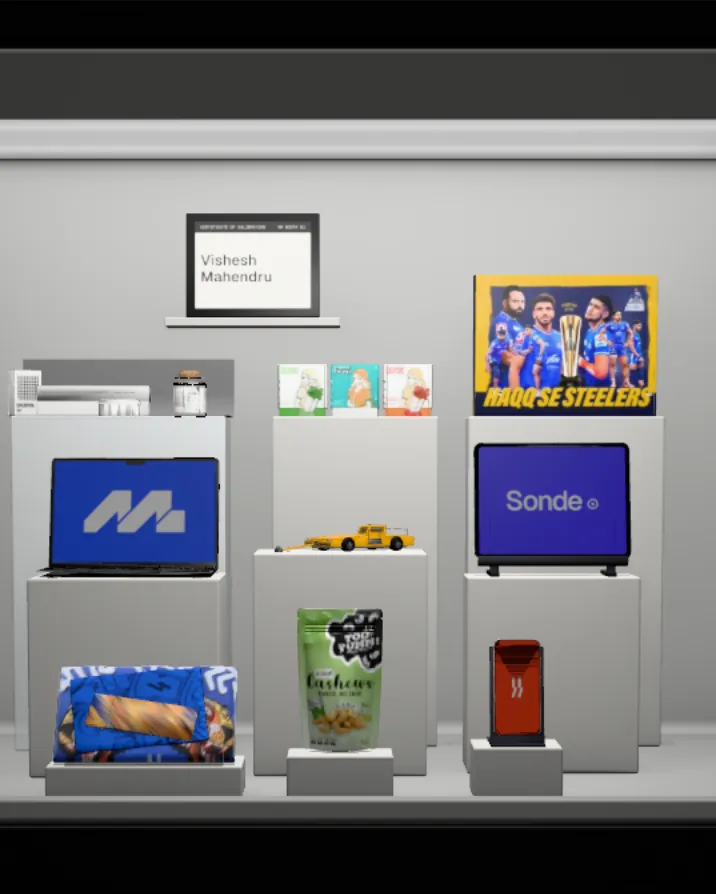
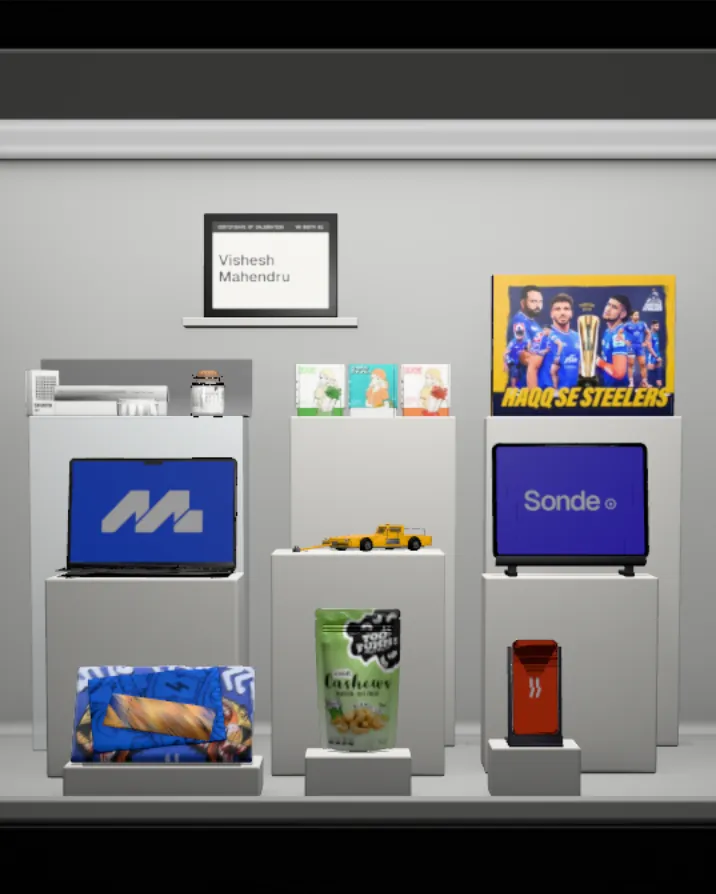
08: lamp changes at full output from the first frame (only the first-visit opening strikes from dark); phone swipe starts at the centre of the phone order; check-flicker judges transitions by dips below both sides; check-smear waits for the soft navigation; reveal sheet steps the real crossfade; pos
Claude-Session: https://claude.ai/code/session_01RuhKxfnJBpDdXDCHDdVnoZ

Changed region(s): [[0.0, 0.302, 0.9525, 0.906], [0.2458, 0.2416, 0.4916, 0.3624], [0.8911, 0.8154, 0.9525, 0.8758]]

diff --git a/components/booth/BoothFrame.tsx b/components/booth/BoothFrame.tsx
@@ -19,10 +19,11 @@ export function BoothFrame({ samples: given }: { samples: FrameSample[] }) {
   const ref = useRef<HTMLDivElement>(null);
   // G (08): on phones the swipe follows the phone arrangement, front row first, left to right
   const [samples, setSamples] = useState(given);
+  const [ordered, setOrdered] = useState(false);
   useEffect(() => {
-    if (!PHONE_LAYOUT) return setSamples(given);
     const tier = (slug: string) => Math.round(STAGING[slug].z * 4);
-    setSamples([...given].sort((a, b) => tier(b.slug) - tier(a.slug) || STAGING[a.slug].x - STAGING[b.slug].x));
+    setSamples(PHONE_LAYOUT ? [...given].sort((a, b) => tier(b.slug) - tier(a.slug) || STAGING[a.slug].x - STAGING[b.slug].x) : given);
+    setOrdered(true);
   }, [given]);
   const focusSlug = useBooth((s) => s.focusSlug);
   const setFocus = useBooth((s) => s.setFocusSlug);
@@ -65,8 +66,8 @@ export function BoothFrame({ samples: given }: { samples: FrameSample[] }) {
   }, []);
   // start on the centre sample
   useEffect(() => {
-    if (!useBooth.getState().focusSlug && samples.length) setFocus(samples[Math.floor(samples.length / 2)].slug);
-  }, [samples, setFocus]);
+    if (ordered && !useBooth.getState().focusSlug && samples.length) setFocus(samples[Math.floor(samples.length / 2)].slug);
+  }, [ordered, samples, setFocus]);
 
   const go = (d: number) => {
     const i = Math.min(samples.length - 1, Math.max(0, index + d));

diff --git a/components/booth/LampRig.tsx b/components/booth/LampRig.tsx
@@ -195,10 +195,14 @@ export function LampRig() {
     const lamp = lampOverride ?? liveLamp;
     const strikeProgress = override ?? liveProgress;
     const P = lampById(lamp);
-    const curve = useBooth.getState().opening ? 'opening' : P.strike.curve;
-    const ch = strikeChannels(curve, strikeProgress);
+    const opening = useBooth.getState().opening;
+    const curve = opening ? 'opening' : P.strike.curve;
+    // C (08): only the first-visit opening strikes from dark. A lamp change is at full output from its
+    // first frame (a strike from black read as a blink on every switch); FLOOD keeps its exposure
+    // settle, which only ever brightens
+    const ch = opening ? strikeChannels(curve, strikeProgress) : { ...strikeChannels(curve, 1), exposure: strikeChannels(curve, strikeProgress).exposure };
     const env = ch.light;
-    const ramp = strikeKelvin(curve, strikeProgress);
+    const ramp = opening ? strikeKelvin(curve, strikeProgress) : null;
     const onTray = activeSlug !== null;
 
     scene.environmentIntensity = ENV_INTENSITY[lamp] * env;

diff --git a/DELIVERY-08.md b/DELIVERY-08.md
@@ -1,0 +1,130 @@
+# Delivery report: batch 08
+
+Covers the frame budget, no flicker, masked hover focus, true scale and staging, project headers, phone staging and polish.
+
+Work is on branch `claude/session-access-question-dqidr4`. The screenshots are in `booth-08.zip` (and `tools/lamp-review/08/`). All browser checks ran in software rendering (SwiftShader, no GPU), so GPU milliseconds must be read on the RTX with the commands in §2.
+
+**ROOM FROZEN at `aa0e153`.** `tools/booth-room.glb` (13 parts, UV1) and its sha256 lock (`tools/booth-room.lock`) have not changed since. `bake-booth` refuses to rewrite it unless `ROOM_UNFREEZE=1`. Every later change (true-scale plinths, the shelf, the phone arrangement) left the room's UV1 untouched: the movable parts pack after the room and step their own texel density down when they need room.
+
+## 1. Tests
+
+@@TESTS@@
+
+## 2. Frame budget (B)
+
+**What changed.**
+- **Re-render only on change.** The floor reflection, the shadow map and the SSAO normals now re-render only when something changes them: the camera, the lamp, an object's transform, the view rect, the DPR or a model load. Each system has its own dirty flag (`lib/dirty.ts`), shown in the `?perf` overlay with a re-render count.
+- **VSM shadows.** Softness is baked into the map once per change; PCSS no longer runs per pixel per frame.
+- **One combined screen light on desktop**, as on phones.
+- **SSAO normals:** skipped on unchanged frames. Once a lightmap exists, they cover the objects only.
+- **No per-frame work** that doesn't change the image. When nothing moves, the canvas doesn't render at all.
+
+**SCREEN** (the reason to combine the lights is that it must still read 15–25 L* on the pouch, book and SOOK):
+
+| | Pouch | Book | SOOK |
+|---|---|---|---|
+| Before: three per-screen lights | 35.4 | 30.5 | 37.1 |
+| Combined light, final gains, 07 staging | 18.3 | 22.4 | 22.9 |
+| **Combined light, 08 true-scale staging** | **19.3** | **22.4** | **20.8** |
+
+**MSAA vs SMAA.** I kept MSAA 4x: SMAA breaks the thin highlights on the frame chamfers into dashes, and they crawl under the pointer parallax. Mean change between two parallax frames: MSAA 0.50 / 1.05, SMAA 0.67 / 1.09. Crops: `tools/lamp-review/08/aa-compare.png`.
+
+**`__boothPasses` table (SwiftShader).** These are CPU milliseconds, so the shares matter, not the absolute numbers. "Still" is a frame where nothing changed; "moving" forces every system to re-render.
+
+| Pass (2560×1440, all on) | Still | Moving |
+|---|---|---|
+| ViewsPass (drawing the booth) | 7019 | 8987 |
+| Scene prep (reflector, contact shadows, shadow map) | 350 | 896 |
+| NormalPass (SSAO normals) | **1.4** | 54.8 |
+| EffectPass | 503 | 497 |
+| ShaderPass | 339 | 375 |
+| CoveragePass | 50 | 63 |
+| **Frame p50 / p95** | **8263 / 8724** | **10872 / 11155** |
+
+The still frame is 24% cheaper than the moving one. On a still frame the normal pass drops 97% and scene prep drops 61%: that is the saving the RTX gets on every frame where nothing moves. The full table, with each feature switched off, is in `tools/lamp-review/08/frame-budget-swiftshader.md`. The phone tier at 390×844 @2x is 1848ms p50.
+
+**Commands for the RTX 4070 SUPER** (Chrome, 2560×1440):
+
+1. Open `https://<preview>/?perf`. The overlay shows the frame time and, on the last line, the dirty flags (● = re-rendering this frame) with counts.
+2. In the console, run `__boothPasses(30)`: the still frame (no re-render). Target p50 ≤ 8ms, p95 ≤ 11ms.
+3. Run `__boothPasses(30, true)`: every system forced to re-render. This is the worst case while the pointer moves.
+4. A/B any feature with `?perf&no=<list>`. For example `?perf&no=msaa4` (MSAA 2x), `?perf&no=reflector,ssao`. Then run `__boothPasses(30)` again.
+   - Switches: `ssao`, `vsm` (back to PCF + PCSS), `pcss`, `screencombine` (back to per-screen lights), `screenlights`, `reflector`, `msaa4`, `msaa` (SMAA), `focus`, `contact`, `envcapture`, `bloom`.
+5. `?perf&events` adds an on-screen log of every reveal step, lamp change, re-render and contact-shadow re-bake.
+
+## 3. No flicker (C)
+
+- **The poster is the live booth.** `tools/make-posters.mjs` renders it from the current staging: the cabinet frame crop at 1200 and 2400, plus a 4:5 phone poster.
+  - The build refuses a stale poster (`tools/poster-hash.mjs --check` hashes every input of the booth image).
+  - `check-poster` compares the poster with the live render: 1.34% mean difference on desktop, 0.52% on the phone (limit 2.5%).
+  - 07's poster was a different staging. It fails both this check and the reveal check in `check-flicker`.
+- **Reveal.** The poster stays until the visible models are in, the lamp's interior is captured and one full frame has rendered (programs compiled first). It then crossfades over 300ms; a model that arrives later fades in over 250ms. Contact sheet: `reveal-sheet.jpg`.
+- **No runtime pass changes.** Every pass exists from the first frame. Lights that switch on, like the hover key and the certificate spot, stay in the scene at intensity 0, so no material recompiles mid-session.
+- **Pre-capture.** Every lamp's environment is captured while idle, after the reveal, so the first switch to a lamp no longer captures on screen.
+- **Contact shadows.** A re-bake after a turntable spin crossfades over 200ms.
+- **`?perf&events`:** the on-screen event log.
+- **`check-flicker`** now covers the reveal (the poster must match the live render), hover on and off across every sample under D50 and A, a lamp change, a turntable spin with release, and the JSW open.
+
+## 4. Masked hover focus (D)
+
+- Depth of field is gone. A half-resolution mask of the hovered sample keeps it sharp. Everything outside it gets a ≤ 2.5px blur at 1440p, with a ~6px feather.
+- Strength ramps in over 250ms and out over 300ms, and crossfades between samples. The tray object rests at 0.6.
+- A soft key, about +12%, lights the hovered sample in the lamp's own colour (room lamps only).
+- Off on phones, under reduced motion and in house lights. At rest it costs nothing: the pass returns before sampling when the strength is 0.
+- Screenshot: `*-home-hover-mitooshi.jpg`.
+
+## 5. True relative scale (E)
+
+- **One display scale for every sample: real size (×1.0).** The phone is a phone next to the laptop.
+- **The tug** is the one scale model: 1:24, 0.28m with the tow bar, on its own plinth with an engraved "1:24" plate (Geist Mono, dark on brushed metal).
+- **SHUNYA** sits on a Munsell N5.5 curved sweep card on a higher riser (29cm), instead of the black board.
+- **The certificate** is 1.6× larger, on a lower, wider shelf, under its own soft spot.
+- **Rows:**
+  - front: Bengal, the tug, the tablet;
+  - middle, raised: the laptop, Too Yumm, SHUNYA, the phone;
+  - back, high: SOOK and the JSW book.
+- **The size rule** now measures each sample's long side (its height for a portrait piece like the pouch or phone). The floor is 11% of the cabinet, or 9% on a raised plinth with nothing taller in front (`staging.ts` `sizeFloor`).
+  - Smallest: the phone, at 9.1–9.4% (raised plinth, 9% floor). Too Yumm, at 11.9–12.8%, is the smallest sample held to 11%.
+  - Worst overlap: 0.5%. Minimum gap: 11.0cm.
+- **The honest limit:** at real size, the phone can't reach 11% of a 1.6m cabinet from this lens. The 9% raised-plinth rule is what lets it pass.
+
+## 6. Project headers (F)
+
+- **Per-project framing.** In a tray shot, any neighbour that would overlap the tray object or be cut by the frame edge drops out with its base (`shots.ts` `trayHidden`). The rest stay dimmed and whole. The tray object's own empty plinth always drops out. This fixes the JSW book above the laptop on /work/mitooshi.
+- **Screen glass:** coat roughness ~0.12, environment 0.35, and no direct specular from the lamps' small sources, so there is no hot spot.
+- **JSW artwork:** desktop now carries WebP at the full 2048, encoded from the lossless PNG art, not the JPEG embedded in the GLB. That removes UASTC+RDO's block grid and softness, and the file is 0.64MB (was 1.52MB). Side by side with `ref-open.png`: `jsw-compare.jpg`.
+- **Other models at tray zoom:** @@TEXTURES@@
+
+## 7. Phone staging (G)
+
+- A separate three-tier arrangement of all ten objects for the 4:5 box, at 0.68 × real size (`phoneStaging.ts`, its own AO bake `ao-phone.png`). The tug's plate reads its true ratio at this size.
+- Every object is wholly in the frame. The smallest is the phone, at 14.9% of the box width (floor 14%) at 390×844 and 430×932.
+- A swipe moves the focus with a short camera lean (≤ 2.5% of the box), never losing an object.
+- Phone poster: `poster-phone.webp`. `check-sizes` and `check-picking` run at 390×844 and 430×932.
+
+## 8. Polish (H)
+
+1. "Play with sound" appears only for a video with an audio stream (ffprobe at build, `content/audio.json`). **None of the eight current videos has one**, so the button is hidden everywhere until a video with sound is added.
+2. The "CHECKED UNDER… / PASS" row is gone from the calibration label.
+3. The lamp pill:
+   - shrinks to a dot and the lamp name;
+   - docks bottom left;
+   - slides away while scrolling down;
+   - returns on scroll up or after 1.2s still;
+   - never returns over a proof.
+4. The Index preview box takes each still's own aspect (max 70svh), with no letterbox.
+5. Lazy proofs start loading one screen ahead. `review-shots` full-page captures wait for every image.
+6. The manifest is linked with `crossOrigin="use-credentials"` everywhere (it was only on Vercel previews).
+
+## 9. Screenshots
+
+`tools/lamp-review/08/shots/` at 2560×1440, 1568×980 and 390×844:
+- `/` under D50, A, SCREEN and AFTER DARK;
+- `/` with a hover (phones: a swipe);
+- /work/mitooshi, /work/jsw-sports (open), /work/shunya and /work/indo-thai.
+
+Also: `reveal-sheet.jpg` (12 frames, first paint → poster → crossfade → live), `jsw-compare.jpg` and `aa-compare.png`.
+
+## 10. Budgets
+
+@@BUDGETS@@
